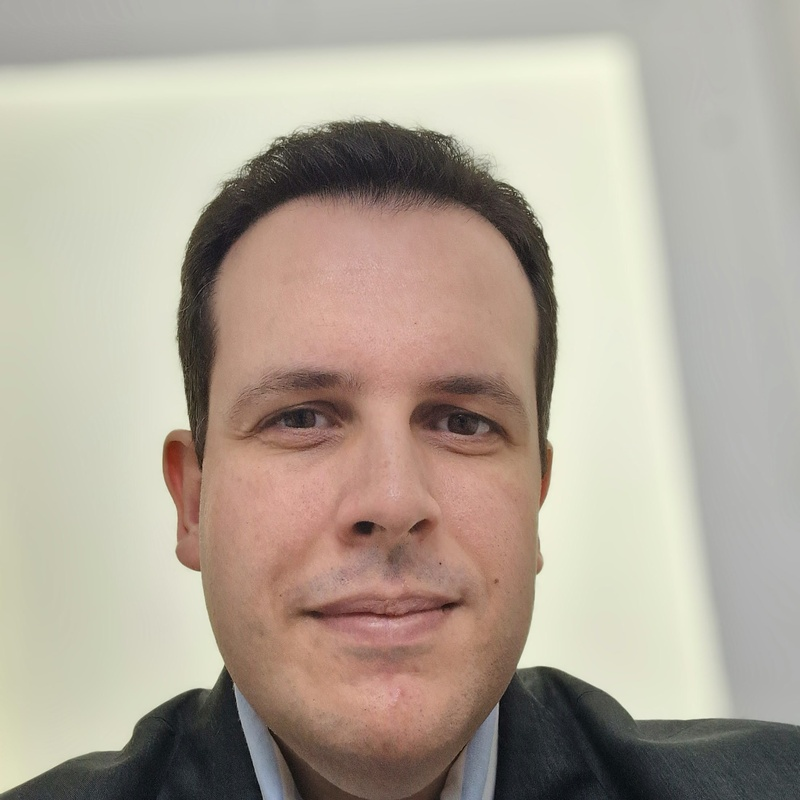
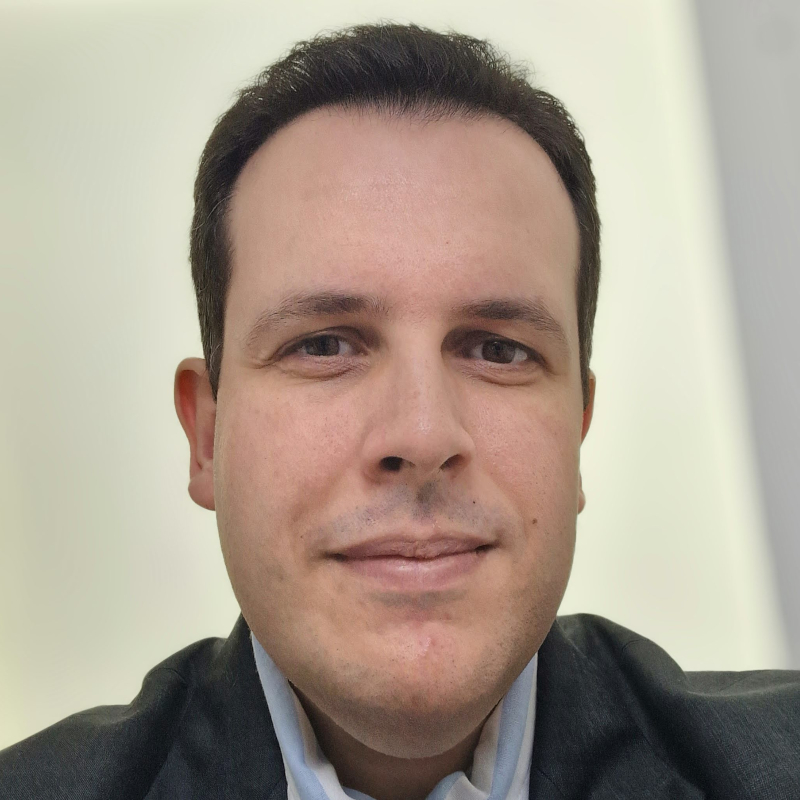
docs(team): update Anthony Accioly's profile
- photo
- role
- affiliations
- links

diff --git a/docs/team.html b/docs/team.html
@@ -283,8 +283,8 @@
               <img src="assets/img/team/anthony-accioly.jpg" alt="Anthony Accioly" class="team-avatar" loading="lazy">
             </div>
             <h3 class="team-name">Anthony Accioly</h3>
-            <div class="team-role">Technical Contributor</div>
-            <div class="team-affiliation">Director at Hextet<br>Open Source Software Architect<br>Quantum Systems Engineering</div>
+            <div class="team-role">Research Assistant</div>
+            <div class="team-affiliation">Director at Hextet<br>University of São Paulo (USP) alumnus<br>Software Analysis and Evaluation Group (SAEG)</div>
             <div class="team-links">
               <a href="https://accioly.dev/" target="_blank" rel="noopener" class="team-link-btn btn-website"
                 title="Website"><svg width="13" height="13" viewBox="0 0 24 24" fill="none" stroke="currentColor"
@@ -298,7 +298,13 @@
                   viewBox="0 0 24 24" fill="currentColor">
                   <path
                     d="M19 0h-14c-2.761 0-5 2.239-5 5v14c0 2.761 2.239 5 5 5h14c2.762 0 5-2.239 5-5v-14c0-2.761-2.238-5-5-5zm-11 19h-3v-11h3v11zm-1.5-12.268c-.966 0-1.75-.79-1.75-1.764s.784-1.764 1.75-1.764 1.75.79 1.75 1.764-.783 1.764-1.75 1.764zm13.5 12.268h-3v-5.604c0-3.368-4-3.113-4 0v5.604h-3v-11h3v1.765c1.396-2.586 7-2.777 7 2.476v6.759z" />
-                </svg> <span>LinkedIn</span></a>
+                </svg> <span>LinkedIn</span></a><a href="https://orcid.org/0009-0007-6170-4860" target="_blank"
+                rel="noopener" class="team-link-btn btn-orcid" title="ORCID"><svg width="13" height="13"
+                  viewBox="0 0 24 24" fill="currentColor">
+                  <path
+                    d="M12 0C5.372 0 0 5.372 0 12s5.372 12 12 12 12-5.372 12-12S18.628 0 12 0zM7.369 4.378c.525 0 .947.431.947.947s-.422.947-.947.947a.95.95 0 0 1-.947-.947c0-.516.422-.947.947-.947zm-.722 3.038h1.444v10.041H6.647V7.416zm3.562 0h3.9c3.712 0 5.344 2.653 5.344 5.025 0 2.578-2.016 5.016-5.325 5.016h-3.919V7.416zm1.444 1.303v7.444h2.297c3.272 0 4.022-2.484 4.022-3.722 0-2.016-1.284-3.722-4.097-3.722h-2.222z" />
+                </svg> <span>ORCID</span></a>
+
             </div>
           </div>
         </div>
